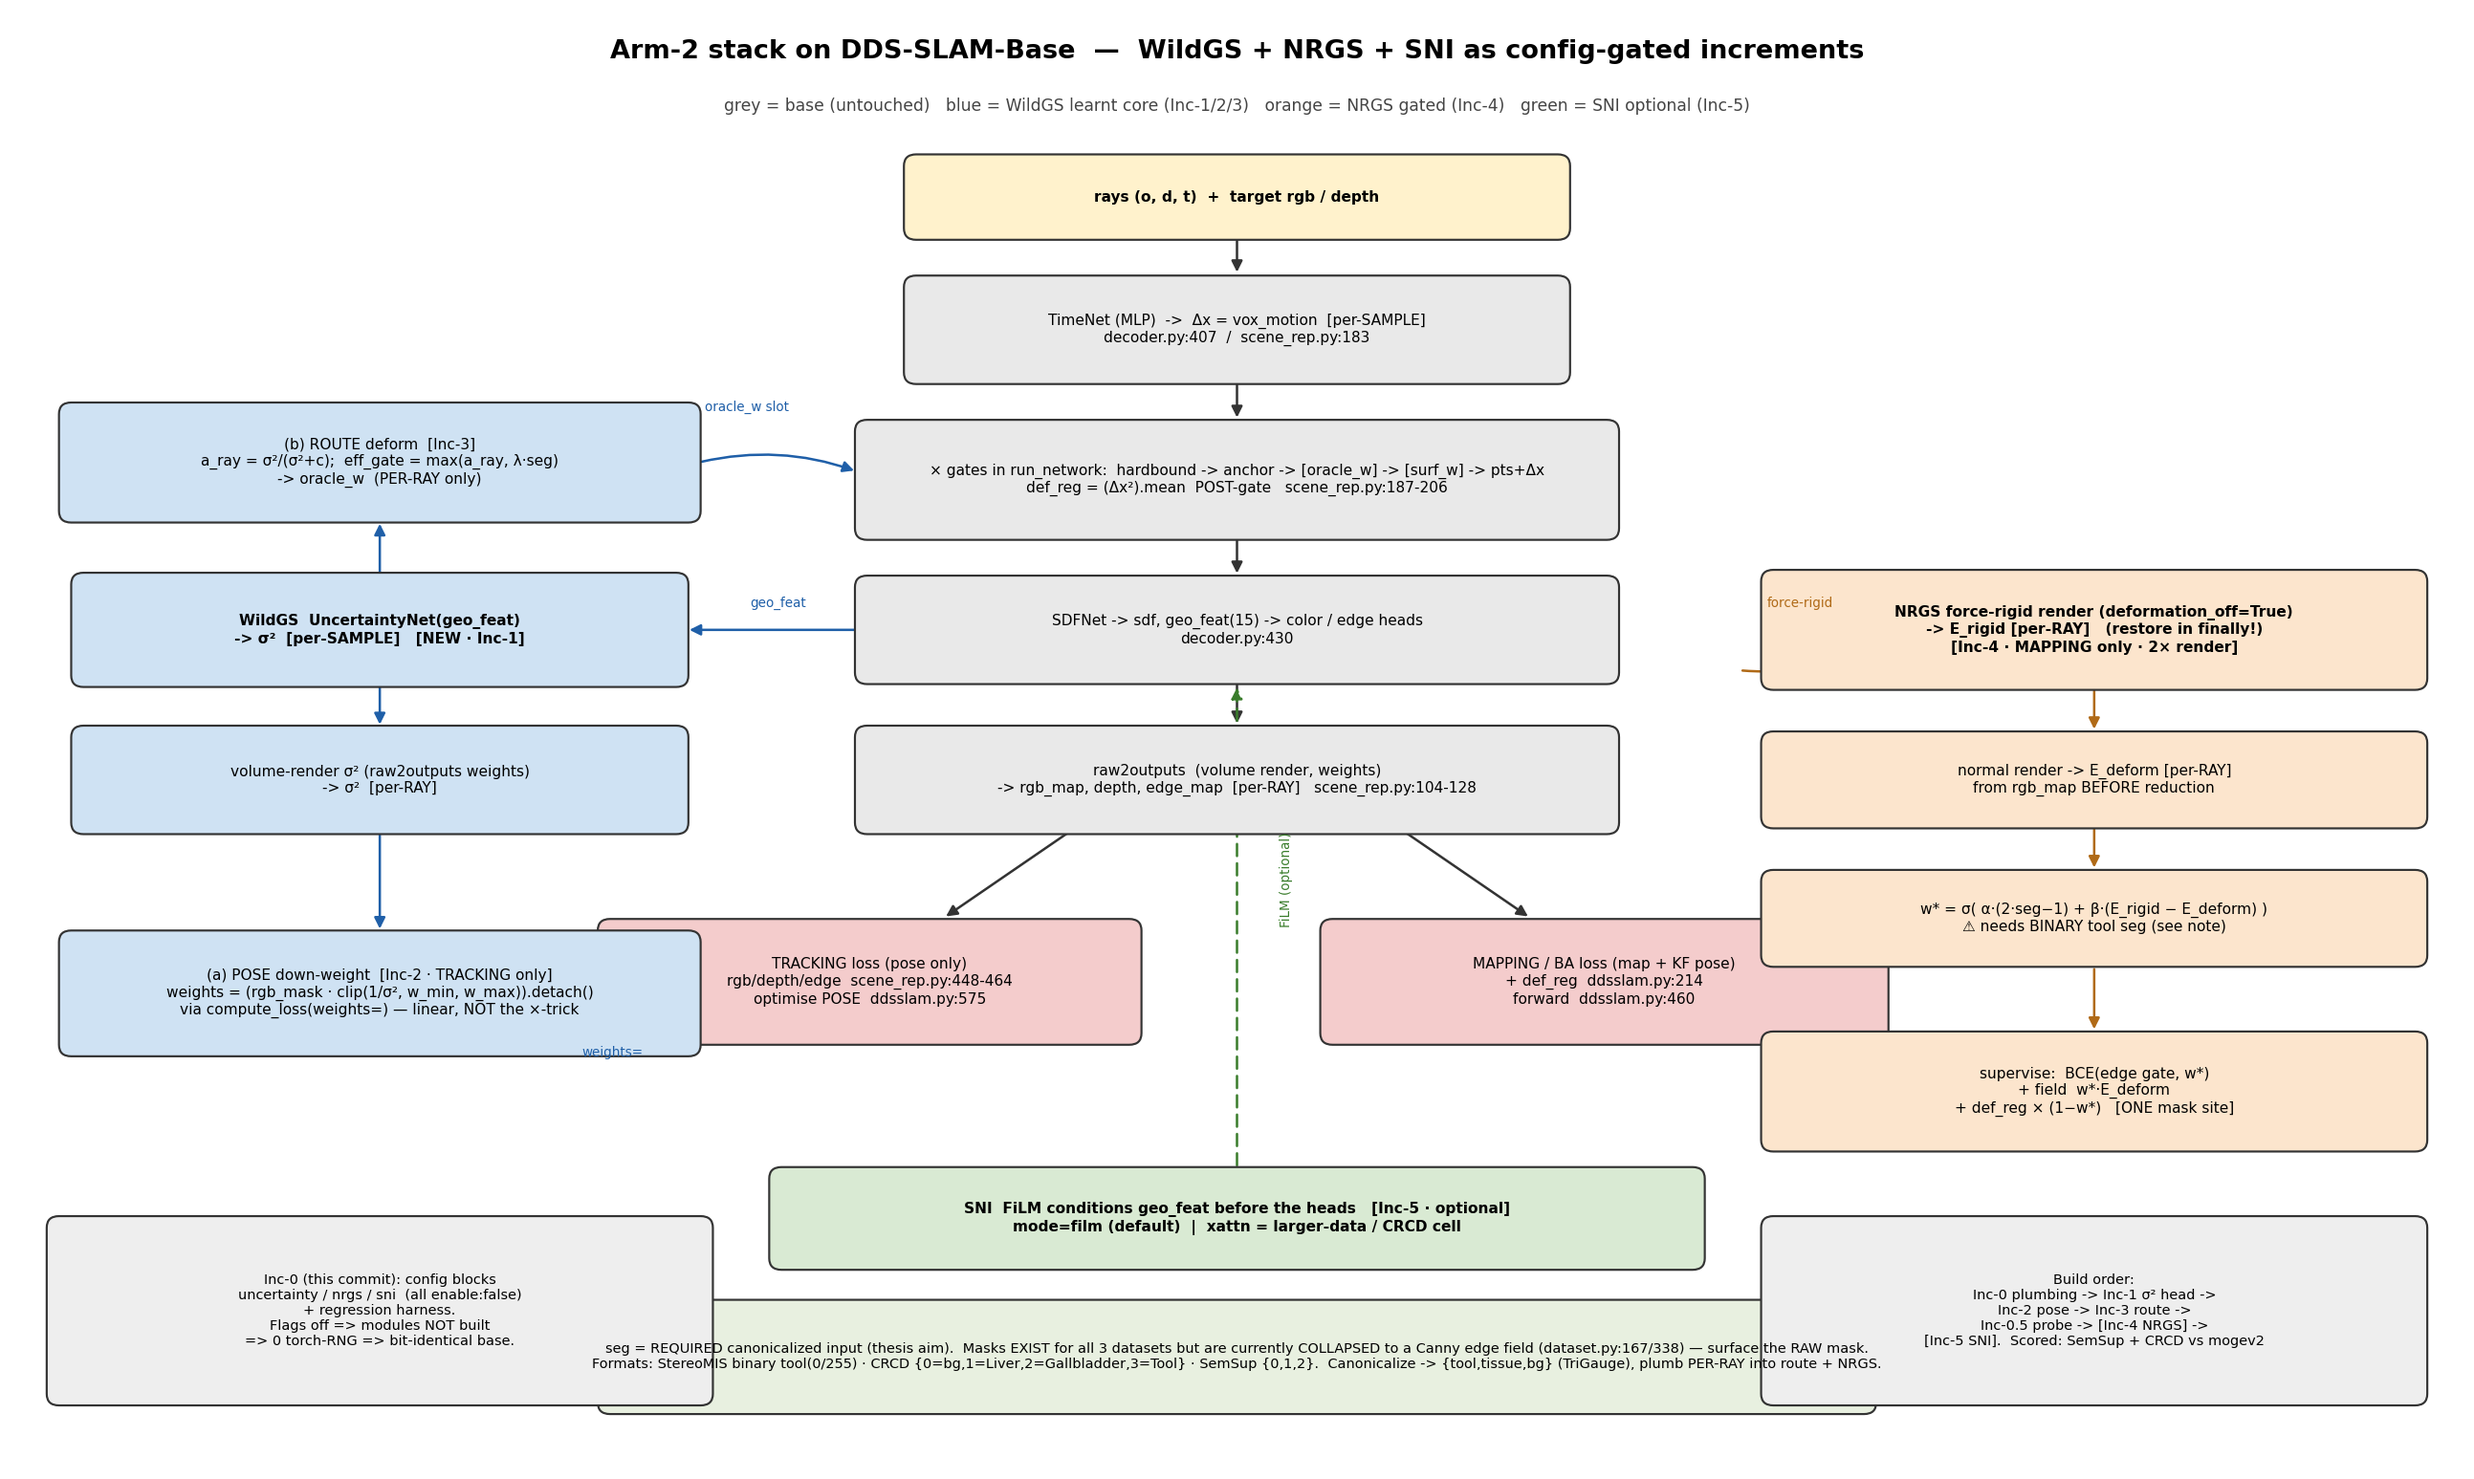
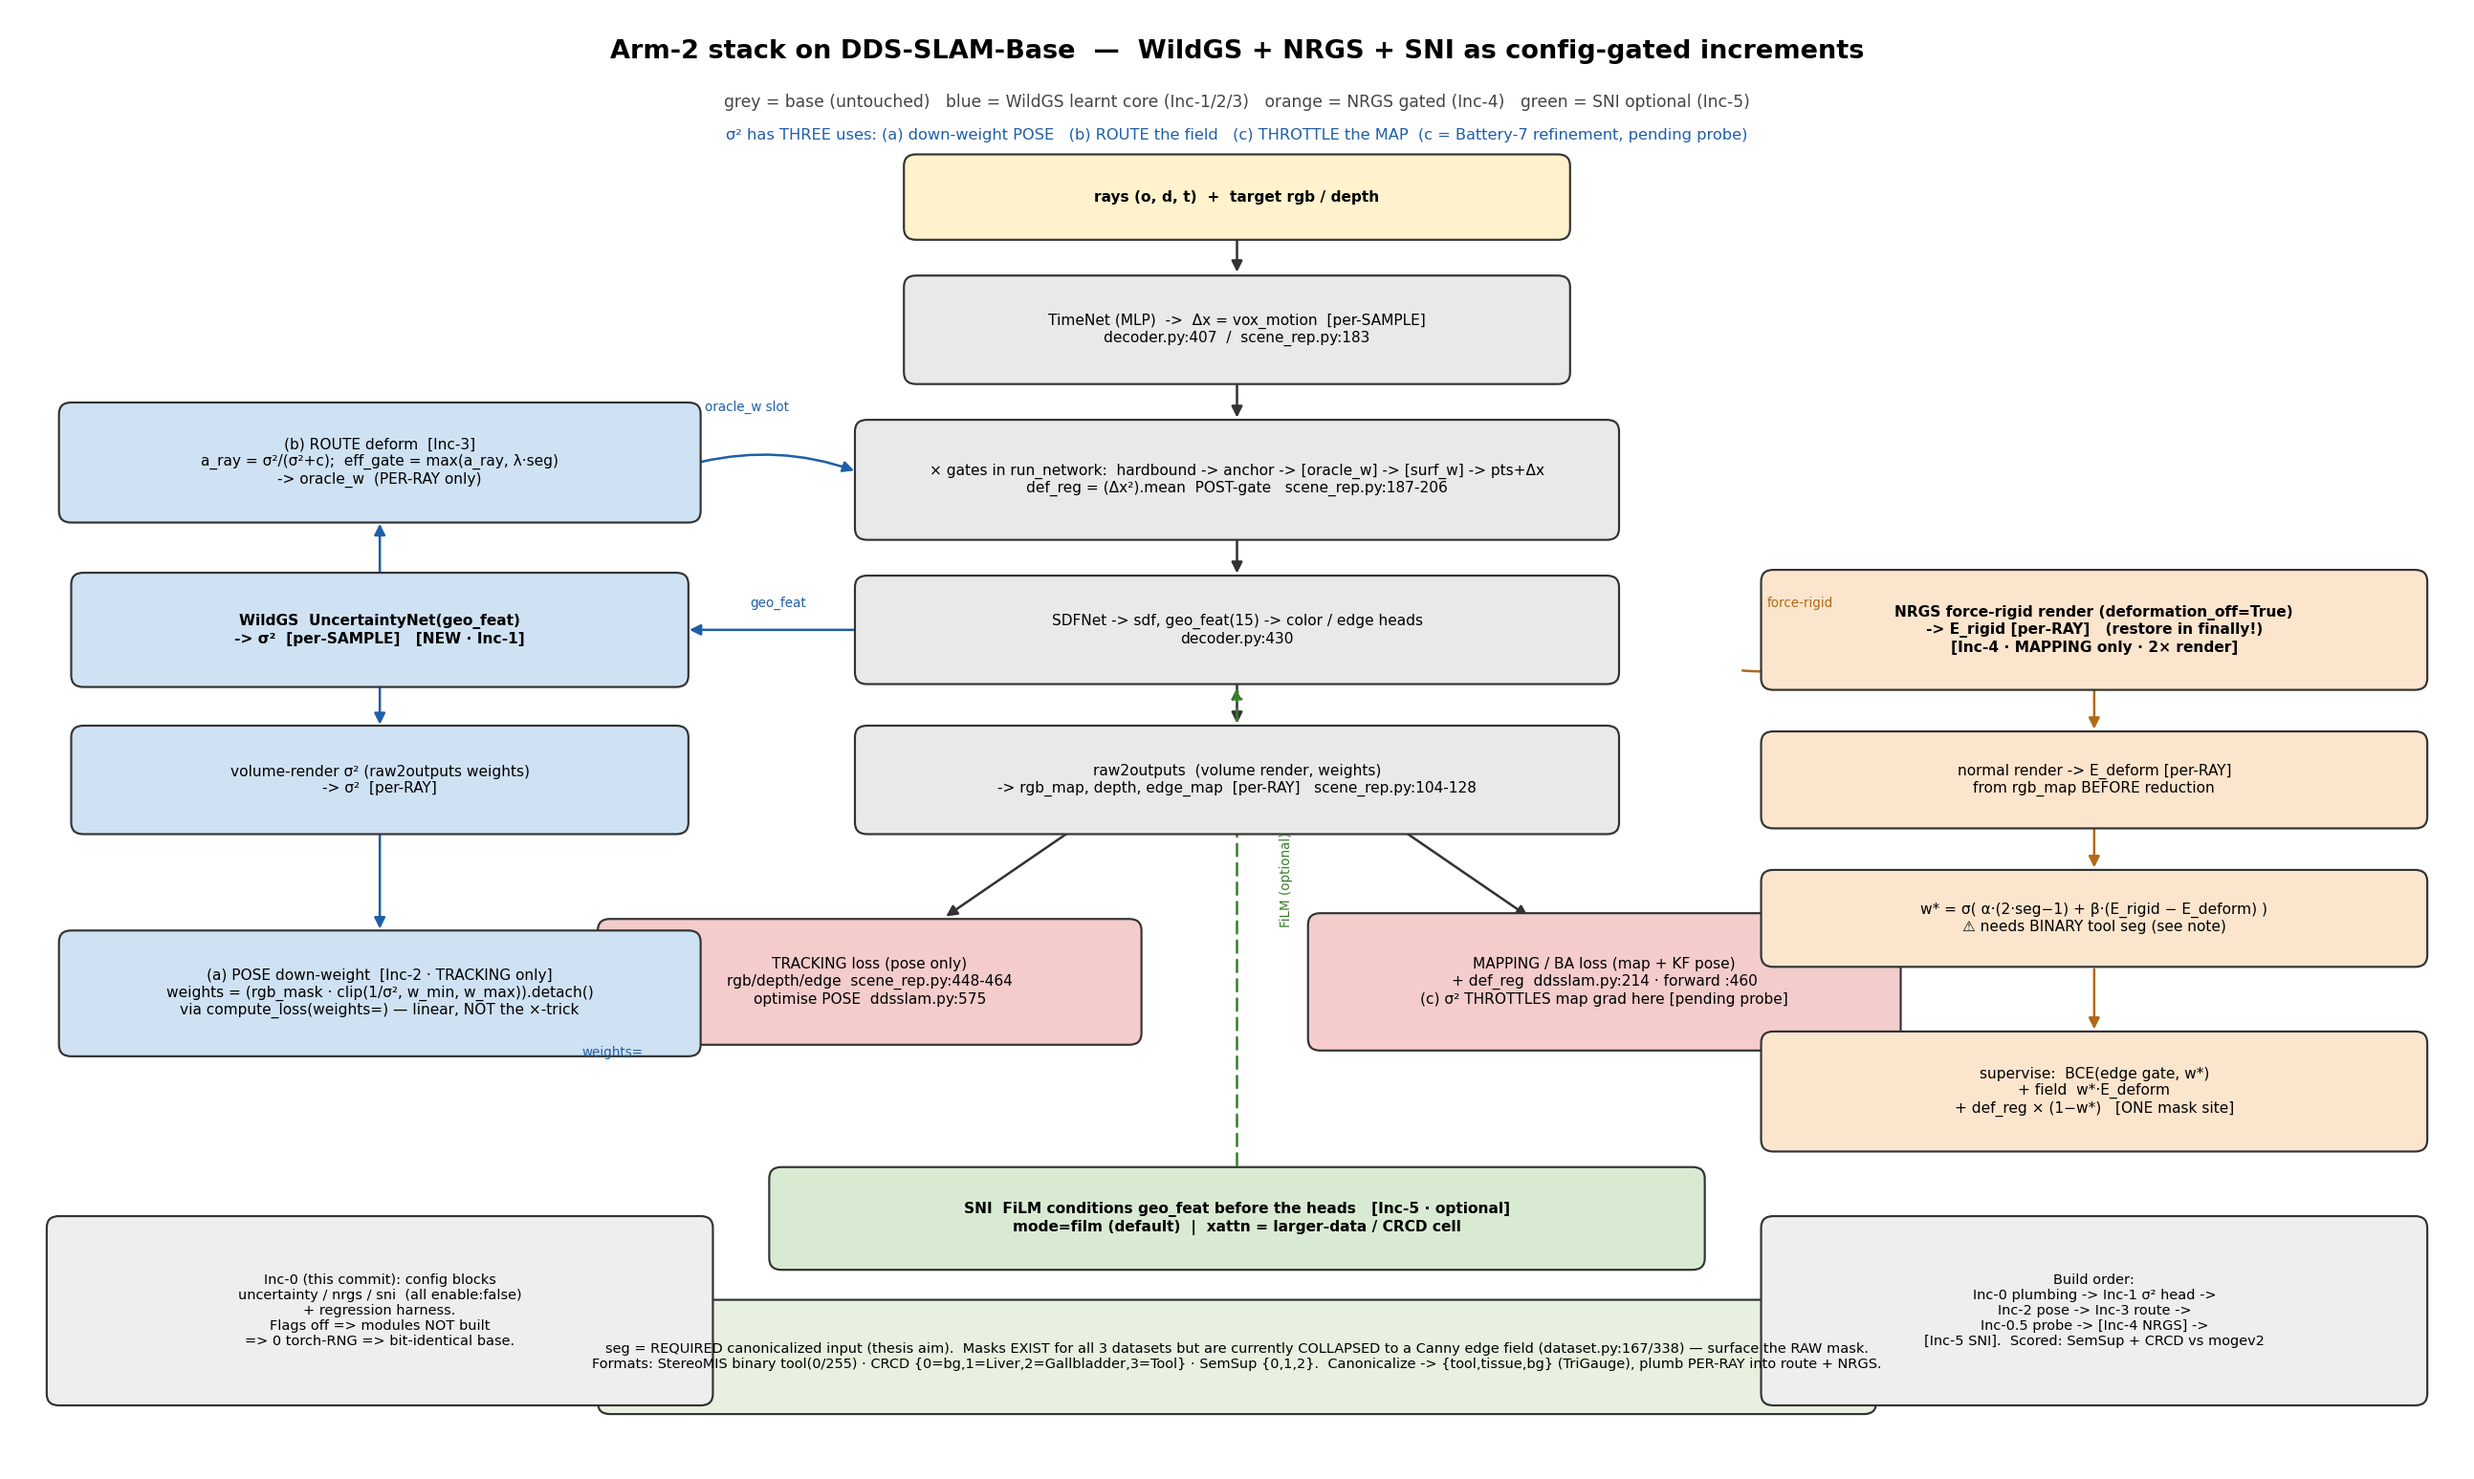
Arm-2: fold in throttle-the-map (3rd use of sigma^2) + map-absorption probe runbook
Battery-7 architecture read: the map has NO time input (decoder.py:423) -> it
fits a blurry time-average and wins the gradient race vs the slow TimeNet, so
the field is starved. Routing the field (Inc-3) is necessary but not sufficient;
sigma^2 needs a THIRD use: THROTTLE the map gradient at high-uncertainty regions
so the field must explain moving tissue (gated on the probe confirming a residual).

- ARM2_STACK_DRAFT: new section 0b (map-vs-field competition, 3rd use of sigma^2)
- arm2_architecture: subtitle states 3 uses; throttle note in MAPPING-loss box
- probe_map_absorption_20260614.sh: re-train s2 (ckpt not persisted by battery-7),
  run map_absorption_probe + render_eval_attrib + Inc-0 golden/check, persist ckpt

Changed region(s): [[0.5257, 0.5895, 0.7112, 0.7136], [0.2783, 0.0621, 0.7112, 0.0931], [0.7422, 0.6516, 0.7731, 0.6826]]

diff --git a/Addons/docs/arm2_architecture.py b/Addons/docs/arm2_architecture.py
@@ -36,8 +36,10 @@ ax.set_xlim(0, 20); ax.set_ylim(0, 12.6); ax.axis('off')
 
 ax.text(10, 12.2, 'Arm-2 stack on DDS-SLAM-Base  —  WildGS + NRGS + SNI as config-gated increments',
         ha='center', fontsize=15, weight='bold')
-ax.text(10, 11.75, 'grey = base (untouched)   blue = WildGS learnt core (Inc-1/2/3)   '
+ax.text(10, 11.78, 'grey = base (untouched)   blue = WildGS learnt core (Inc-1/2/3)   '
         'orange = NRGS gated (Inc-4)   green = SNI optional (Inc-5)', ha='center', fontsize=9.5, color='#444')
+ax.text(10, 11.5, 'σ² has THREE uses: (a) down-weight POSE   (b) ROUTE the field   (c) THROTTLE the MAP  '
+        '(c = Battery-7 refinement, pending probe)', ha='center', fontsize=9, color='#1f5fa8')
 
 # ---------------- BASE LOOP (centre) ----------------
 box(ax, 10, 11.0, 5.4, 0.7, 'rays (o, d, t)  +  target rgb / depth', C_IN, weight='bold')
@@ -49,8 +51,9 @@ box(ax, 10, 7.25, 6.2, 0.9, 'SDFNet -> sdf, geo_feat(15) -> color / edge heads\n
 box(ax, 10, 5.95, 6.2, 0.9, 'raw2outputs  (volume render, weights)\n-> rgb_map, depth, edge_map  [per-RAY]   scene_rep.py:104-128', C_BASE)
 box(ax, 7.0, 4.2, 4.4, 1.05,
     'TRACKING loss (pose only)\nrgb/depth/edge  scene_rep.py:448-464\noptimise POSE  ddsslam.py:575', C_LOSS)
-box(ax, 13.0, 4.2, 4.6, 1.05,
-    'MAPPING / BA loss (map + KF pose)\n+ def_reg  ddsslam.py:214\nforward  ddsslam.py:460', C_LOSS)
+box(ax, 13.0, 4.2, 4.8, 1.15,
+    'MAPPING / BA loss (map + KF pose)\n+ def_reg  ddsslam.py:214 · forward :460\n'
+    '(c) σ² THROTTLES map grad here [pending probe]', C_LOSS)
 arrow(ax, (10, 10.65), (10, 10.32)); arrow(ax, (10, 9.4), (10, 9.06))
 arrow(ax, (10, 8.05), (10, 7.71)); arrow(ax, (10, 6.8), (10, 6.41))
 arrow(ax, (8.7, 5.55), (7.6, 4.75)); arrow(ax, (11.3, 5.55), (12.4, 4.75))

diff --git a/Addons/docs/ARM2_STACK_DRAFT_20260614.md b/Addons/docs/ARM2_STACK_DRAFT_20260614.md
@@ -32,6 +32,31 @@ The vet found one fatal measurement gap, one wiring bug, and ~2× scope. All fol
 
 ---
 
+## 0b. MAP-vs-FIELD COMPETITION — σ² gets a THIRD use (Battery-7 architecture read, 2026-06-14)
+
+Code-verified (scene_rep.py:177-214, decoder.py:423-442, ddsslam.py:677-689): the map
+(hash-grid + SDF + color) has **NO time input** — time enters ONLY via the TimeNet warp
+(`vox_motion`, :191; `pts+vox_motion`, :213). So the map **cannot store per-frame motion**; it
+fits a blurry **time-average** and **wins the gradient race** (hash/decoder lr 0.01 + huge
+capacity vs TimeNet lr 0.001 @ `lr_mult 0.1`). It absorbs the *gradient*, not the motion — claims
+the explanation budget first as blur and starves the field. (Battery-7: field surface-dead across
+3 seeds even with pose frozen → not the pose race; this is the cause.)
+
+**Consequence:** routing the field's capacity (ROUTE (b), `oracle_w` on `vox_motion`) is necessary
+but **NOT sufficient** — the faster, higher-capacity map keeps claiming moving pixels. So σ² needs
+a **THIRD use**, alongside pose-↓ and route:
+
+> **(c) THROTTLE THE MAP** — down-weight the *map's* photometric gradient at high-σ² (moving)
+> regions so the field is the only one left to explain them. WildGS-inverted applied to the
+> map-vs-field competition, not just pose.
+
+Mechanism options (decide after the probe): (i) weight the mapping rgb/depth loss for the
+**map params only** by `(1−a_ray).detach()` at high σ² (needs the map-grad path separated from the
+field-grad path — e.g. a stop-grad split, since one `rgb_loss` currently feeds both); or (ii) a
+**canonical/stationarity prior** (penalise the map for deviating from a reference frame, forcing
+deviations onto the field). **GATE:** only build this once the map-absorption probe confirms a real
+residual at the moving tissue (else there's nothing to reassign). See diagnosis/infra/map_absorption_probe.py.
+
 ## 1. THE INTEGRATED PICTURE (one diagram in words)
 
 ```
